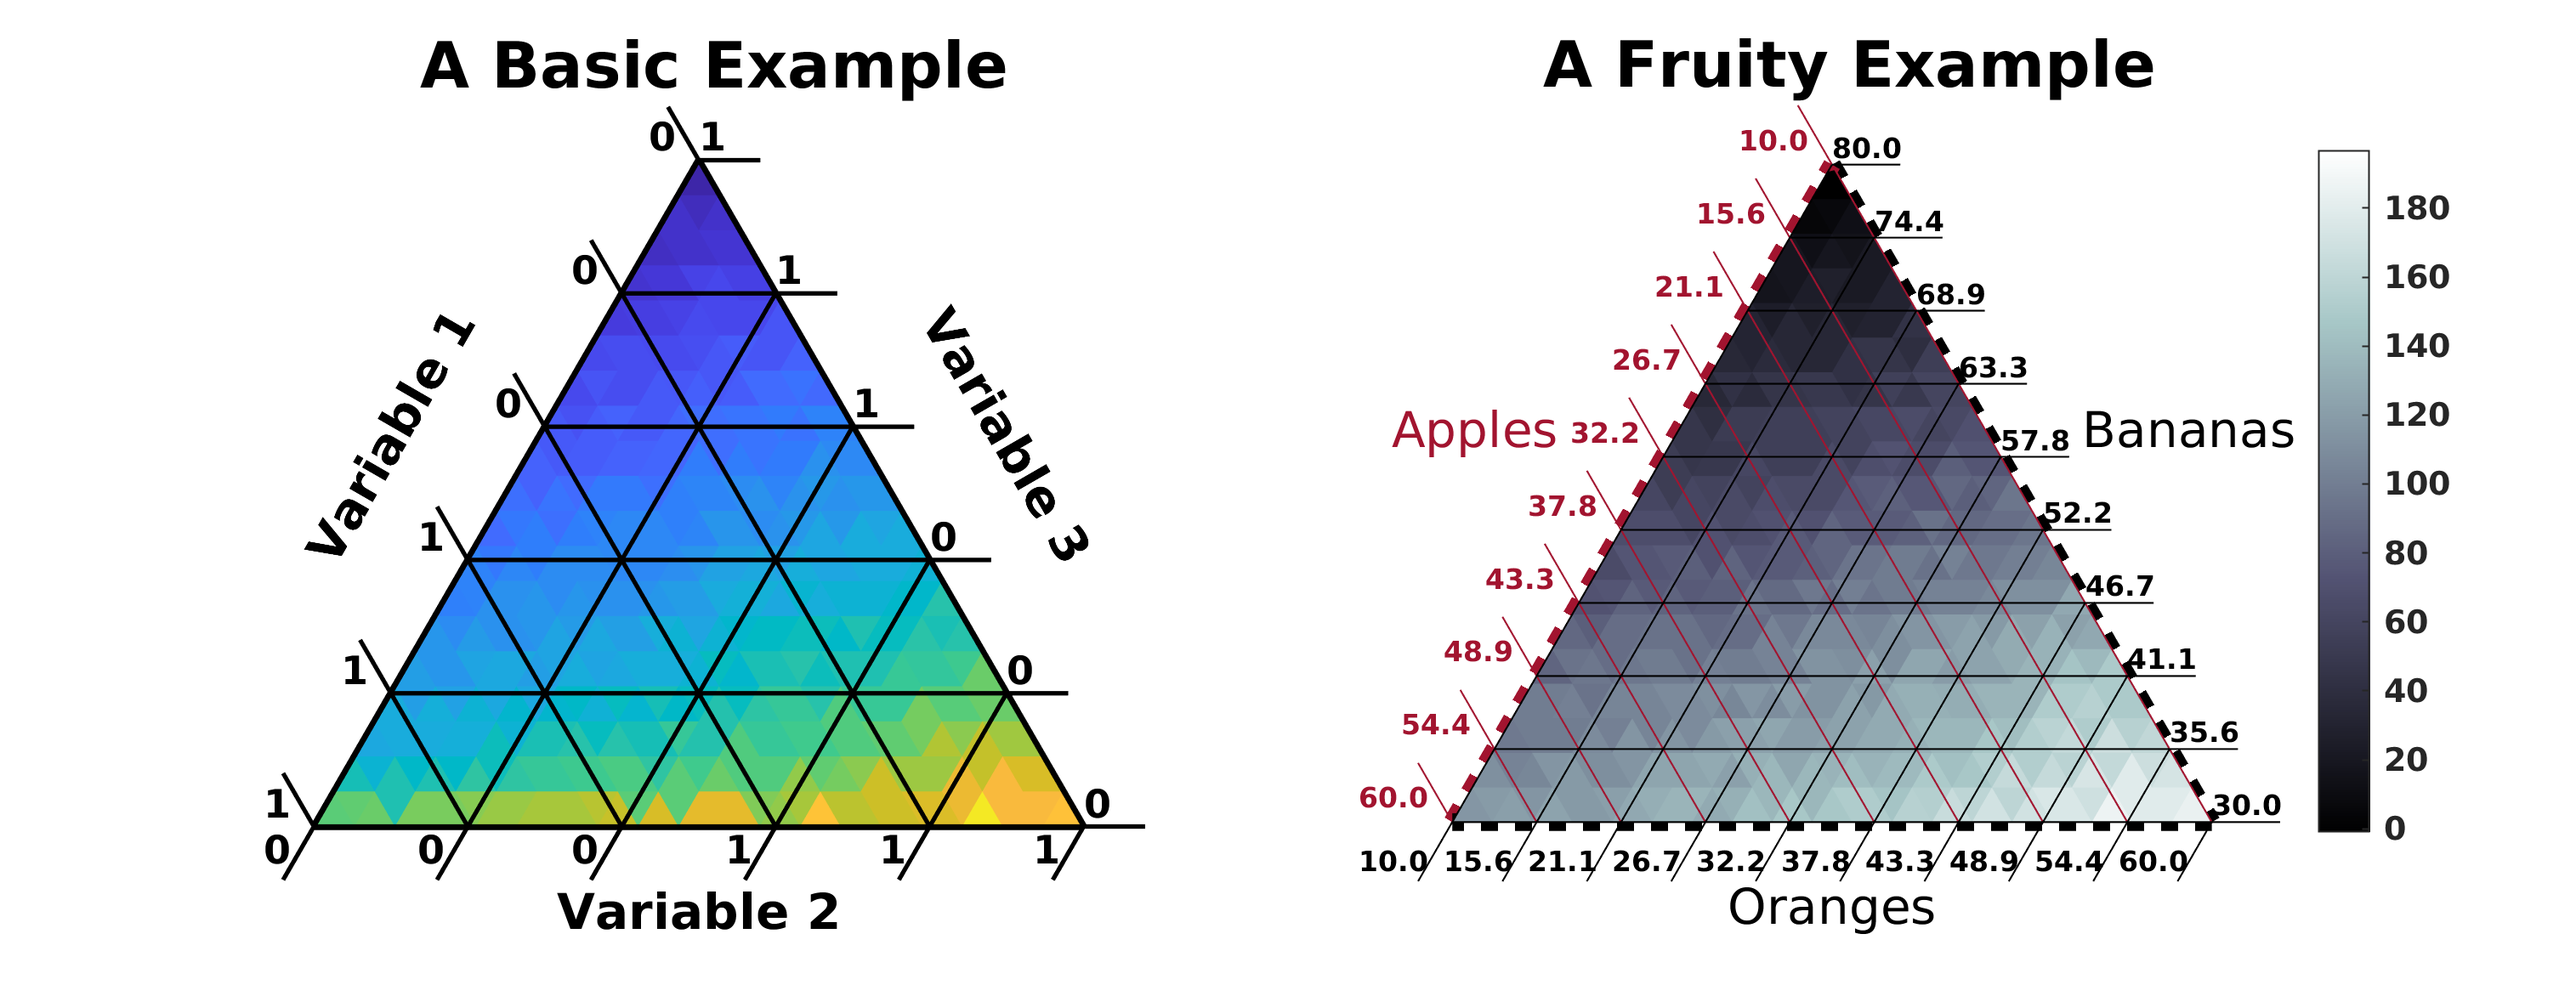
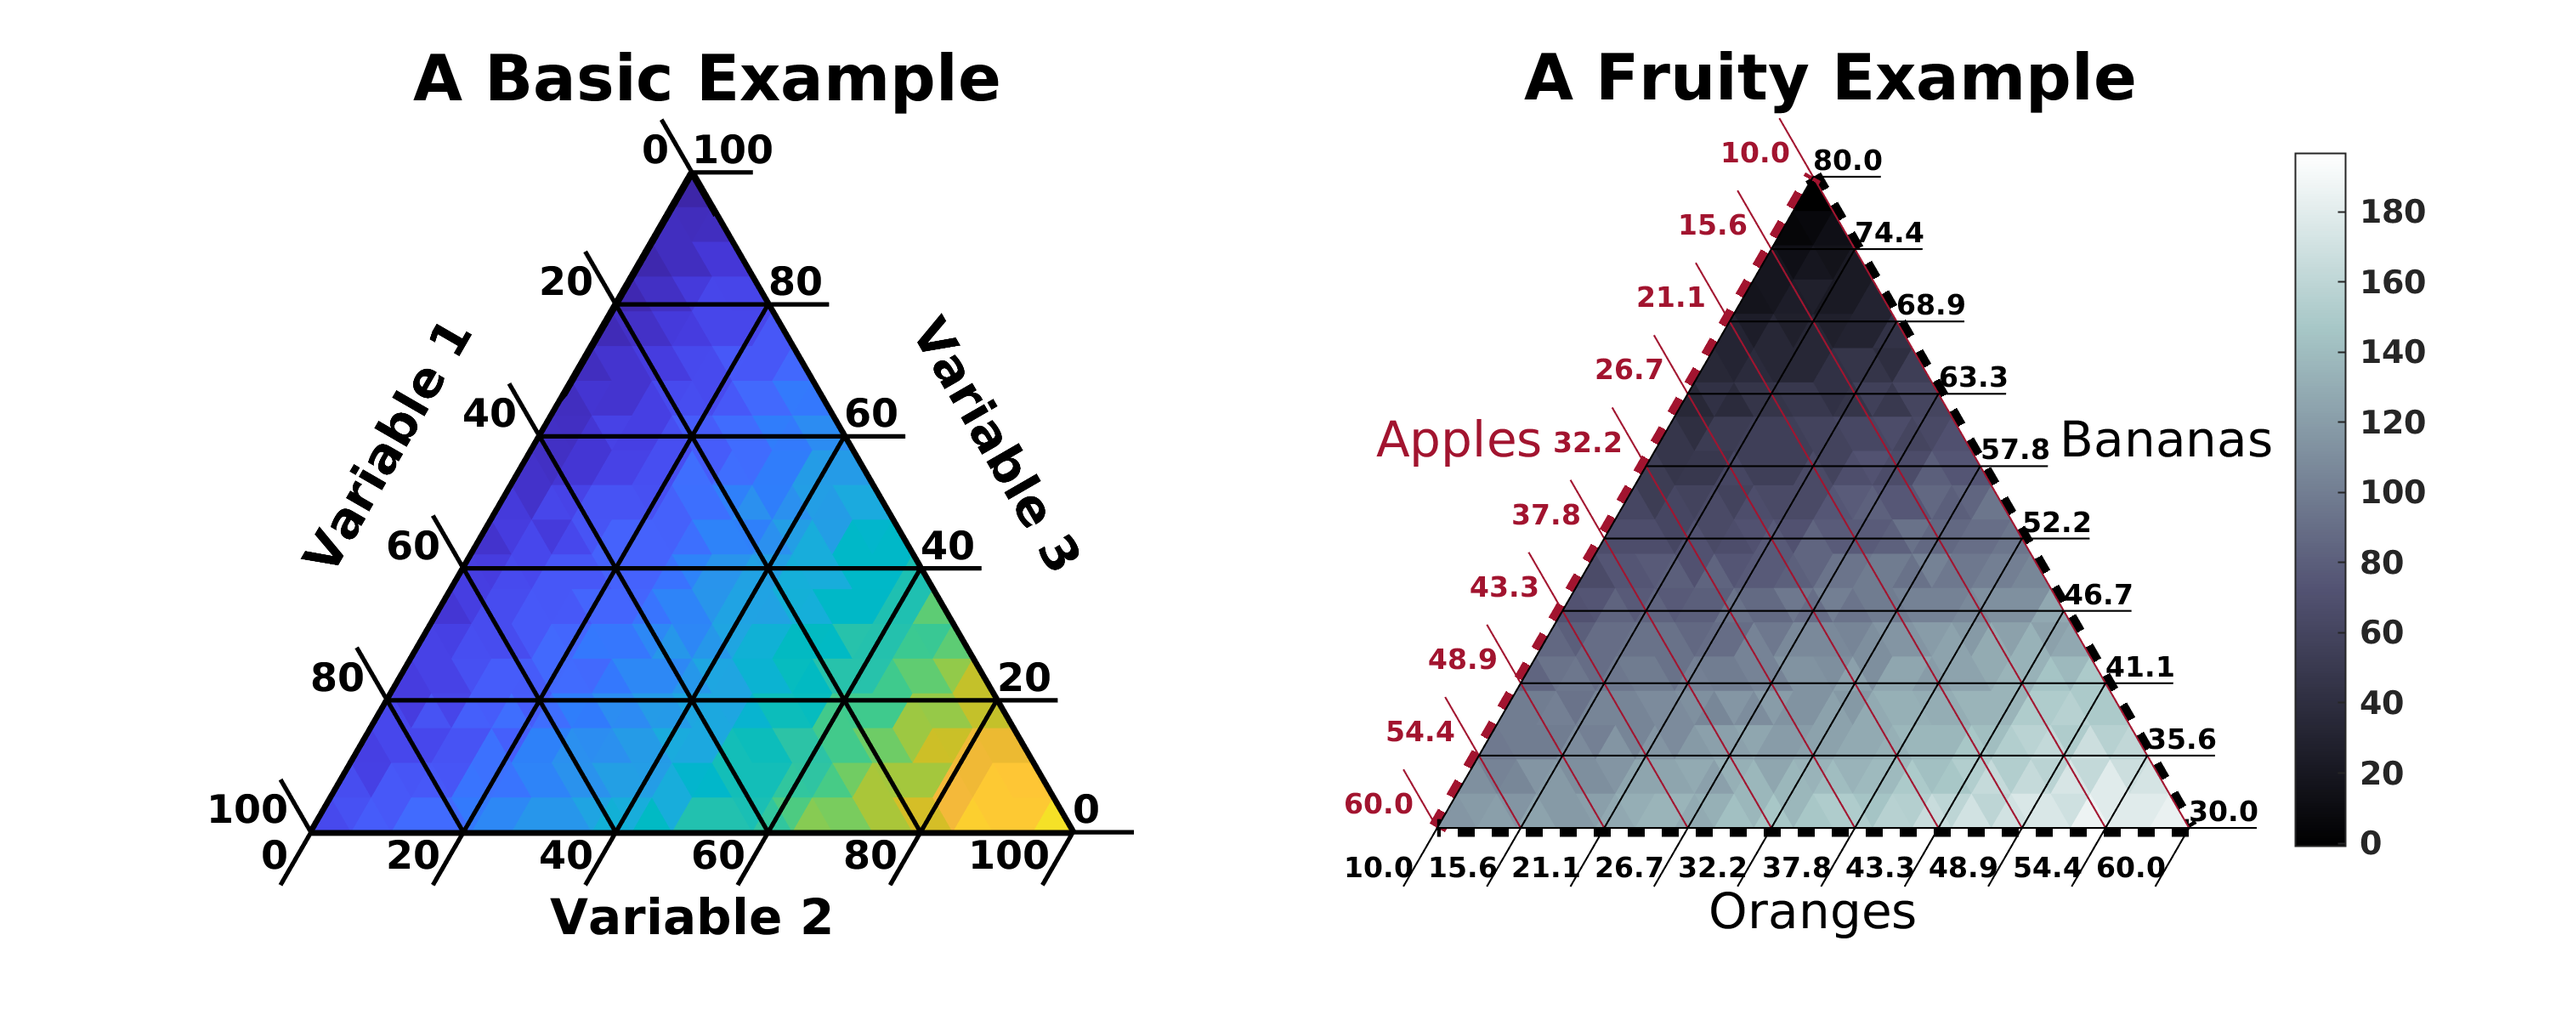
Patched error that made the basic example show integer axes

diff --git a/basic_example.m b/basic_example.m
@@ -6,11 +6,12 @@ clear all; close all; clc
 % (1) Add paths 
     add_ternary_paths
 
-% (2) Create Basic Ternary Axes (Sides Ranging from 0-1)
-    handle = ternary_axes;
+% (2) Create Basic Ternary Axes (Sides Ranging from 0-100)
+    wlimits = ternary_axes_limits( 100 ) ;
+    handle  = ternary_axes( { 'wlimits',  wlimits } ); 
 
 % (3) Get a set of A,B,C Test points, assuming 20 along each side
-    [A,B,C] = ternary_arrays( 20 );
+    [A,B,C] = ternary_arrays( 20, wlimits );
  
 % (5) Create example data
     Z = (A+10)*2.0 + 10*B.^1.2 - 5*sqrt(C*5);

diff --git a/advanced_example.m b/advanced_example.m
@@ -16,8 +16,9 @@ add_ternary_paths
 
 %% (2) Create 2 subplots, fill first with the basic example (without colorbar)
     axes(ax1);
-    handle = ternary_axes;
-    [A,B,C] = ternary_arrays( 20 );
+    wlimits = ternary_axes_limits( 100 ) ;
+    handle = ternary_axes( { 'wlimits',  wlimits });
+    [A,B,C] = ternary_arrays( 20, wlimits );
     Z = (A+10)*2.0 + 10*B.^1.2 - 5*sqrt(C*5);
     ternary_surf( handle, 'l', A, 'b', B, Z ,'none');
     title('A Basic Example','FontSize',18)
